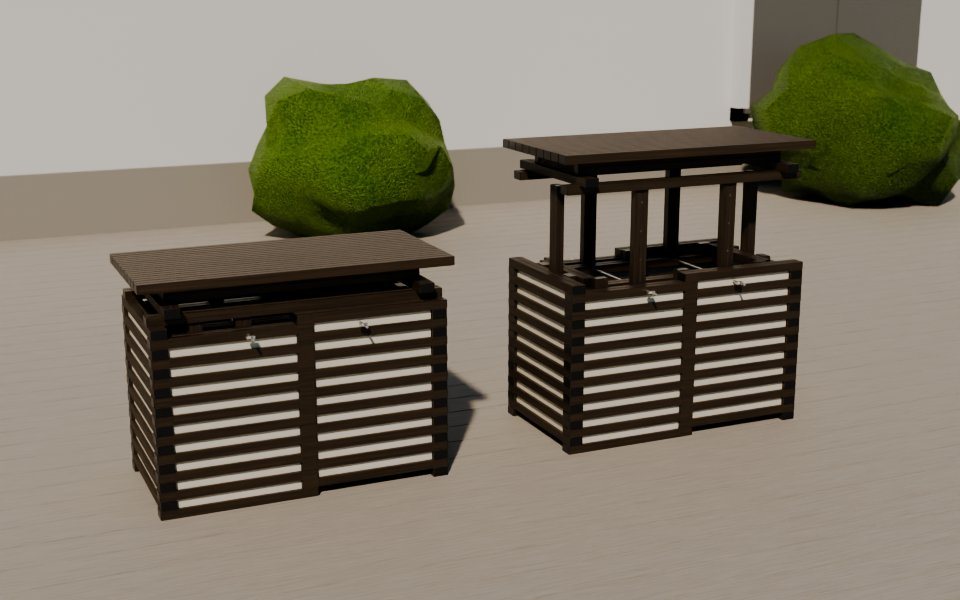
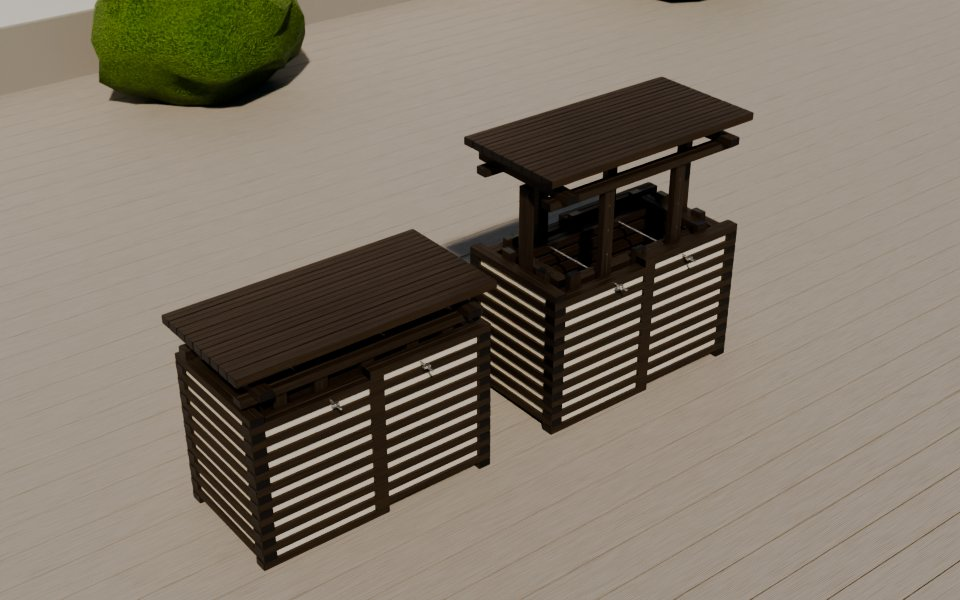
Черновики, 4-я версия: А7 (пальцы через один по контуру), Д2 (выгул пристроен к домику)

diff --git a/chernoviki/index.html b/chernoviki/index.html
@@ -1,4 +1,4 @@
 <!doctype html><html lang="ru"><head><meta charset="utf-8"><meta name="viewport" content="width=device-width,initial-scale=1"><title>Черновики концептов P-02</title>
 <style>:root{--bg:#fff;--fg:#222;--mut:#666}@media(prefers-color-scheme:dark){:root{--bg:#16181c;--fg:#e6e6e6;--mut:#aaa}}body{margin:0;padding:16px;background:var(--bg);color:var(--fg);font-family:system-ui,sans-serif}h1{font-size:22px;margin:0 0 6px}p{color:var(--mut);margin:0 0 16px;max-width:900px}
 .g{display:grid;grid-template-columns:repeat(auto-fill,minmax(300px,1fr));gap:14px}figure{margin:0}img{width:100%;border-radius:6px;display:block}figcaption{font-size:14px;margin-top:6px}small{color:var(--mut)}</style></head><body>
-<h1>Черновики, 3-я версия: по одной картинке на концепт (27)</h1><p>Простое качество — только проверить, правильно ли собрано. Нажмите на картинку, чтобы открыть крупнее. После утверждения — финальные картинки в полном качестве.</p><div class="g"><figure><a href="k_A1.jpg?v=3"><img src="k_A1.jpg?v=3" loading="lazy" alt=""></a><figcaption><b>A1</b> — Стол с хранением на 4</figcaption></figure><figure><a href="k_A2.jpg?v=3"><img src="k_A2.jpg?v=3" loading="lazy" alt=""></a><figcaption><b>A2</b> — Табурет-тумба</figcaption></figure><figure><a href="k_A4.jpg?v=3"><img src="k_A4.jpg?v=3" loading="lazy" alt=""></a><figcaption><b>A4</b> — Скамья-сундук для хранения</figcaption></figure><figure><a href="k_A5.jpg?v=3"><img src="k_A5.jpg?v=3" loading="lazy" alt=""></a><figcaption><b>A5</b> — Барная стойка</figcaption></figure><figure><a href="k_A6.jpg?v=3"><img src="k_A6.jpg?v=3" loading="lazy" alt=""></a><figcaption><b>A6</b> — Сиденья вокруг дерева</figcaption></figure><figure><a href="k_A7.jpg?v=3"><img src="k_A7.jpg?v=3" loading="lazy" alt=""></a><figcaption><b>A7</b> — Подъёмная тумба-подставка<br><small>Сверх системы: два стальных шкворня Ø8 с барашками</small></figcaption></figure><figure><a href="k_B1.jpg?v=3"><img src="k_B1.jpg?v=3" loading="lazy" alt=""></a><figcaption><b>B1</b> — Кашпо</figcaption></figure><figure><a href="k_B2.jpg?v=3"><img src="k_B2.jpg?v=3" loading="lazy" alt=""></a><figcaption><b>B2</b> — Высокая грядка с крышкой-парником<br><small>Сверх системы: петли</small></figcaption></figure><figure><a href="k_B3.jpg?v=3"><img src="k_B3.jpg?v=3" loading="lazy" alt=""></a><figcaption><b>B3</b> — Ограждение-линия</figcaption></figure><figure><a href="k_B5.jpg?v=3"><img src="k_B5.jpg?v=3" loading="lazy" alt=""></a><figcaption><b>B5</b> — Компостер на 2 секции</figcaption></figure><figure><a href="k_B6.jpg?v=3"><img src="k_B6.jpg?v=3" loading="lazy" alt=""></a><figcaption><b>B6</b> — Мини-теплица «бабочка»<br><small>Сверх системы: оси петель, упоры-фиксаторы</small></figcaption></figure><figure><a href="k_V1.jpg?v=3"><img src="k_V1.jpg?v=3" loading="lazy" alt=""></a><figcaption><b>V1</b> — Короб-домик над колодцем/насосом<br><small>Сверх системы: насос и трубы, петли крышки</small></figcaption></figure><figure><a href="k_V2.jpg?v=3"><img src="k_V2.jpg?v=3" loading="lazy" alt=""></a><figcaption><b>V2</b> — Дровница</figcaption></figure><figure><a href="k_V3.jpg?v=3"><img src="k_V3.jpg?v=3" loading="lazy" alt=""></a><figcaption><b>V3</b> — Экран для кондиционера / теплового насоса<br><small>Сверх системы: наружный блок и кронштейны</small></figcaption></figure><figure><a href="k_V4.jpg?v=3"><img src="k_V4.jpg?v=3" loading="lazy" alt=""></a><figcaption><b>V4</b> — Павильон для 2 бытовых баков<br><small>Сверх системы: баки, петли створок</small></figcaption></figure><figure><a href="k_V5.jpg?v=3"><img src="k_V5.jpg?v=3" loading="lazy" alt=""></a><figcaption><b>V5</b> — Шкаф для инвентаря в рост<br><small>Сверх системы: петли дверей, инвентарь</small></figcaption></figure><figure><a href="k_V6.jpg?v=3"><img src="k_V6.jpg?v=3" loading="lazy" alt=""></a><figcaption><b>V6</b> — Сарай / хозблок<br><small>Сверх системы: петли двери, бетонная плита</small></figcaption></figure><figure><a href="k_V8.jpg?v=3"><img src="k_V8.jpg?v=3" loading="lazy" alt=""></a><figcaption><b>V8</b> — Стеллаж / полки</figcaption></figure><figure><a href="k_G1.jpg?v=3"><img src="k_G1.jpg?v=3" loading="lazy" alt=""></a><figcaption><b>G1</b> — Навес отдельно стоящий<br><small>Сверх системы: опорные пластины с анкерами, садовый стол с лавками из бруса (для показа назначения)</small></figcaption></figure><figure><a href="k_G2.jpg?v=3"><img src="k_G2.jpg?v=3" loading="lazy" alt=""></a><figcaption><b>G2</b> — Пергола<br><small>Сверх системы: опорные пластины стоек</small></figcaption></figure><figure><a href="k_G3.jpg?v=3"><img src="k_G3.jpg?v=3" loading="lazy" alt=""></a><figcaption><b>G3</b> — Беседка<br><small>Сверх системы: бетонные столбики фундамента, лаги пола из бруса 50×150</small></figcaption></figure><figure><a href="k_G4.jpg?v=3"><img src="k_G4.jpg?v=3" loading="lazy" alt=""></a><figcaption><b>G4</b> — Стены для навеса машины<br><small>Сверх системы: стальной каркас навеса, кровля ПК, автомобиль</small></figcaption></figure><figure><a href="k_D1.jpg?v=3"><img src="k_D1.jpg?v=3" loading="lazy" alt=""></a><figcaption><b>D1</b> — Будка / домик для собаки<br><small>Сверх системы: утеплитель стен/пола/крыши (в тексте)</small></figcaption></figure><figure><a href="k_D2.jpg?v=3"><img src="k_D2.jpg?v=3" loading="lazy" alt=""></a><figcaption><b>D2</b> — Курятник с выгулом<br><small>Сверх системы: проволочная сетка выгула</small></figcaption></figure><figure><a href="k_E1.jpg?v=3"><img src="k_E1.jpg?v=3" loading="lazy" alt=""></a><figcaption><b>E1</b> — Песочница с крышкой-скамейками<br><small>Сверх системы: оси петель</small></figcaption></figure><figure><a href="k_Zh1.jpg?v=3"><img src="k_Zh1.jpg?v=3" loading="lazy" alt=""></a><figcaption><b>Zh1</b> — Реечная перегородка-стеллаж (балкон / дом)<br><small>Сверх системы: книги, горшки</small></figcaption></figure><figure><a href="k_Z2.jpg?v=3"><img src="k_Z2.jpg?v=3" loading="lazy" alt=""></a><figcaption><b>Z2</b> — Контейнерная площадка ТКО<br><small>Сверх системы: стальной каркас, кровля ПК, евроконтейнеры 1,1 м³</small></figcaption></figure></div></body></html>
+<h1>Черновики, 4-я версия: по одной картинке на концепт (27)</h1><p>Простое качество — только проверить, правильно ли собрано. Нажмите на картинку, чтобы открыть крупнее. После утверждения — финальные картинки в полном качестве.</p><div class="g"><figure><a href="k_A1.jpg?v=4"><img src="k_A1.jpg?v=4" loading="lazy" alt=""></a><figcaption><b>A1</b> — Стол с хранением на 4</figcaption></figure><figure><a href="k_A2.jpg?v=4"><img src="k_A2.jpg?v=4" loading="lazy" alt=""></a><figcaption><b>A2</b> — Табурет-тумба</figcaption></figure><figure><a href="k_A4.jpg?v=4"><img src="k_A4.jpg?v=4" loading="lazy" alt=""></a><figcaption><b>A4</b> — Скамья-сундук для хранения</figcaption></figure><figure><a href="k_A5.jpg?v=4"><img src="k_A5.jpg?v=4" loading="lazy" alt=""></a><figcaption><b>A5</b> — Барная стойка</figcaption></figure><figure><a href="k_A6.jpg?v=4"><img src="k_A6.jpg?v=4" loading="lazy" alt=""></a><figcaption><b>A6</b> — Сиденья вокруг дерева</figcaption></figure><figure><a href="k_A7.jpg?v=4"><img src="k_A7.jpg?v=4" loading="lazy" alt=""></a><figcaption><b>A7</b> — Подъёмная тумба-подставка<br><small>Сверх системы: два стальных шкворня Ø8 с барашками</small></figcaption></figure><figure><a href="k_B1.jpg?v=4"><img src="k_B1.jpg?v=4" loading="lazy" alt=""></a><figcaption><b>B1</b> — Кашпо</figcaption></figure><figure><a href="k_B2.jpg?v=4"><img src="k_B2.jpg?v=4" loading="lazy" alt=""></a><figcaption><b>B2</b> — Высокая грядка с крышкой-парником<br><small>Сверх системы: петли</small></figcaption></figure><figure><a href="k_B3.jpg?v=4"><img src="k_B3.jpg?v=4" loading="lazy" alt=""></a><figcaption><b>B3</b> — Ограждение-линия</figcaption></figure><figure><a href="k_B5.jpg?v=4"><img src="k_B5.jpg?v=4" loading="lazy" alt=""></a><figcaption><b>B5</b> — Компостер на 2 секции</figcaption></figure><figure><a href="k_B6.jpg?v=4"><img src="k_B6.jpg?v=4" loading="lazy" alt=""></a><figcaption><b>B6</b> — Мини-теплица «бабочка»<br><small>Сверх системы: оси петель, упоры-фиксаторы</small></figcaption></figure><figure><a href="k_V1.jpg?v=4"><img src="k_V1.jpg?v=4" loading="lazy" alt=""></a><figcaption><b>V1</b> — Короб-домик над колодцем/насосом<br><small>Сверх системы: насос и трубы, петли крышки</small></figcaption></figure><figure><a href="k_V2.jpg?v=4"><img src="k_V2.jpg?v=4" loading="lazy" alt=""></a><figcaption><b>V2</b> — Дровница</figcaption></figure><figure><a href="k_V3.jpg?v=4"><img src="k_V3.jpg?v=4" loading="lazy" alt=""></a><figcaption><b>V3</b> — Экран для кондиционера / теплового насоса<br><small>Сверх системы: наружный блок и кронштейны</small></figcaption></figure><figure><a href="k_V4.jpg?v=4"><img src="k_V4.jpg?v=4" loading="lazy" alt=""></a><figcaption><b>V4</b> — Павильон для 2 бытовых баков<br><small>Сверх системы: баки, петли створок</small></figcaption></figure><figure><a href="k_V5.jpg?v=4"><img src="k_V5.jpg?v=4" loading="lazy" alt=""></a><figcaption><b>V5</b> — Шкаф для инвентаря в рост<br><small>Сверх системы: петли дверей, инвентарь</small></figcaption></figure><figure><a href="k_V6.jpg?v=4"><img src="k_V6.jpg?v=4" loading="lazy" alt=""></a><figcaption><b>V6</b> — Сарай / хозблок<br><small>Сверх системы: петли двери, бетонная плита</small></figcaption></figure><figure><a href="k_V8.jpg?v=4"><img src="k_V8.jpg?v=4" loading="lazy" alt=""></a><figcaption><b>V8</b> — Стеллаж / полки</figcaption></figure><figure><a href="k_G1.jpg?v=4"><img src="k_G1.jpg?v=4" loading="lazy" alt=""></a><figcaption><b>G1</b> — Навес отдельно стоящий<br><small>Сверх системы: опорные пластины с анкерами, садовый стол с лавками из бруса (для показа назначения)</small></figcaption></figure><figure><a href="k_G2.jpg?v=4"><img src="k_G2.jpg?v=4" loading="lazy" alt=""></a><figcaption><b>G2</b> — Пергола<br><small>Сверх системы: опорные пластины стоек</small></figcaption></figure><figure><a href="k_G3.jpg?v=4"><img src="k_G3.jpg?v=4" loading="lazy" alt=""></a><figcaption><b>G3</b> — Беседка<br><small>Сверх системы: бетонные столбики фундамента, лаги пола из бруса 50×150</small></figcaption></figure><figure><a href="k_G4.jpg?v=4"><img src="k_G4.jpg?v=4" loading="lazy" alt=""></a><figcaption><b>G4</b> — Стены для навеса машины<br><small>Сверх системы: стальной каркас навеса, кровля ПК, автомобиль</small></figcaption></figure><figure><a href="k_D1.jpg?v=4"><img src="k_D1.jpg?v=4" loading="lazy" alt=""></a><figcaption><b>D1</b> — Будка / домик для собаки<br><small>Сверх системы: утеплитель стен/пола/крыши (в тексте)</small></figcaption></figure><figure><a href="k_D2.jpg?v=4"><img src="k_D2.jpg?v=4" loading="lazy" alt=""></a><figcaption><b>D2</b> — Курятник с выгулом<br><small>Сверх системы: проволочная сетка выгула</small></figcaption></figure><figure><a href="k_E1.jpg?v=4"><img src="k_E1.jpg?v=4" loading="lazy" alt=""></a><figcaption><b>E1</b> — Песочница с крышкой-скамейками<br><small>Сверх системы: оси петель</small></figcaption></figure><figure><a href="k_Zh1.jpg?v=4"><img src="k_Zh1.jpg?v=4" loading="lazy" alt=""></a><figcaption><b>Zh1</b> — Реечная перегородка-стеллаж (балкон / дом)<br><small>Сверх системы: книги, горшки</small></figcaption></figure><figure><a href="k_Z2.jpg?v=4"><img src="k_Z2.jpg?v=4" loading="lazy" alt=""></a><figcaption><b>Z2</b> — Контейнерная площадка ТКО<br><small>Сверх системы: стальной каркас, кровля ПК, евроконтейнеры 1,1 м³</small></figcaption></figure></div></body></html>
